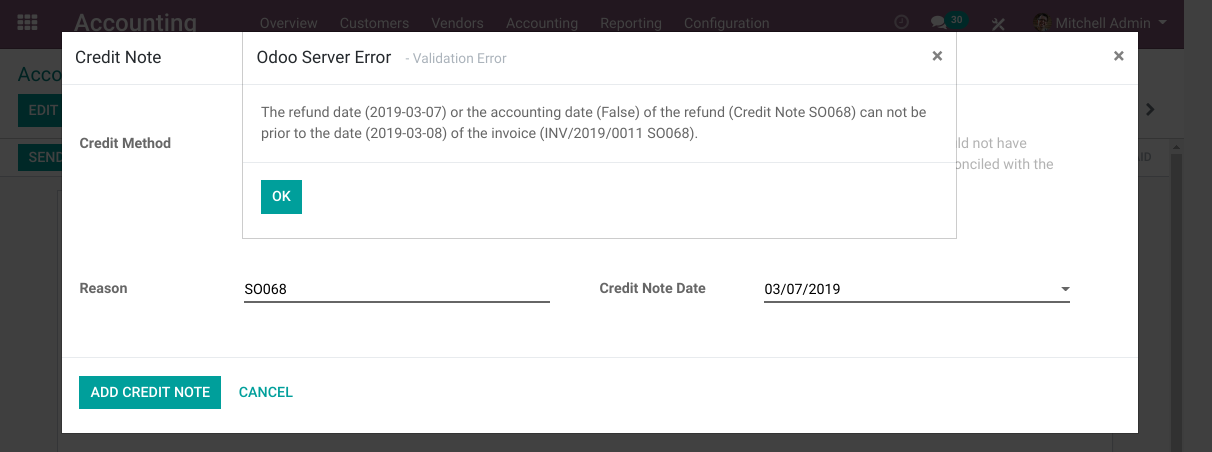
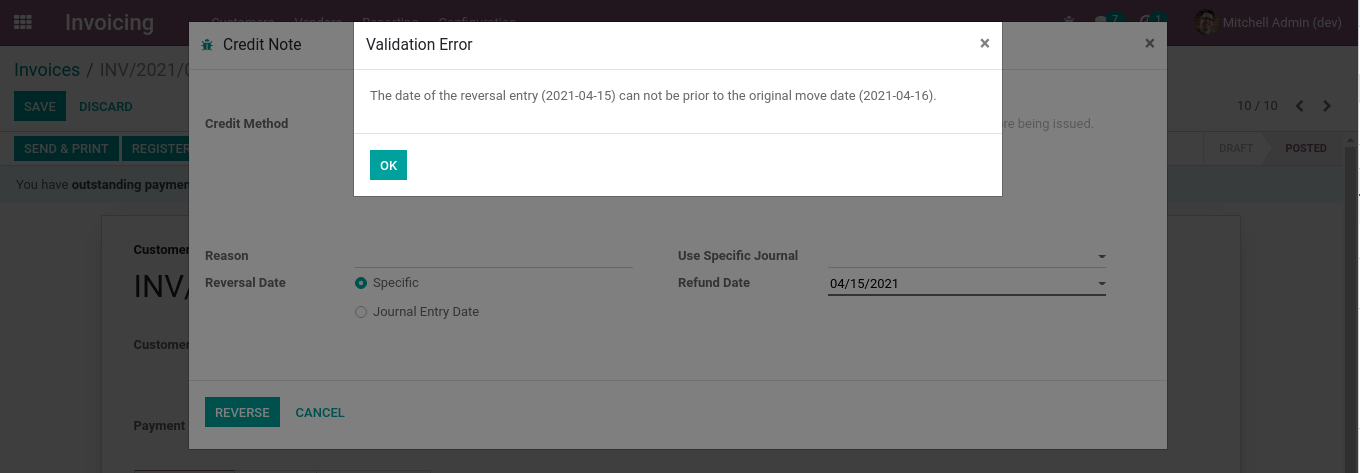
Port invoice_refund_not_earlier to v14

diff --git a/invoice_refund_not_earlier/models.py b/invoice_refund_not_earlier/models.py
@@ -5,50 +5,16 @@ from odoo import api, models, _
 from odoo.exceptions import ValidationError
 
 
-class Invoice(models.Model):
-
-    _inherit = 'account.invoice'
-
-    def _is_refund_prior_to_invoice(self):
-        """Return whether the object is a refund prior to the invoice date.
-
-        :rtype: bool
-        """
-        return (
-            self.type in ('in_refund', 'out_refund') and
-            self.refund_invoice_id and
-            (self.date_invoice and self.date_invoice < self.refund_invoice_id.date_invoice or
-             self.date and self.date < self.refund_invoice_id.date_invoice)
-        )
-
-    def action_invoice_open(self):
-        invalid_refunds = self.filtered(lambda inv: inv._is_refund_prior_to_invoice())
-        if invalid_refunds:
-            refund = invalid_refunds[0]
-            invoice = refund.refund_invoice_id
-            raise ValidationError(_(
-                "The refund date ({refund_date}) or the accounting date ({accounting_date}) "
-                "of the refund ({refund}) can not "
-                "be prior to the date ({invoice_date}) of the invoice ({invoice})."
-            ).format(
-                refund_date=refund.date_invoice or _('empty'),
-                accounting_date=refund.date or _('empty'),
-                refund=refund.display_name,
-                invoice_date=invoice.date_invoice,
-                invoice=invoice.display_name,
-            ))
-        return super().action_invoice_open()
-
-
-class JournalEntry(models.Model):
+class AccountMove(models.Model):
 
     _inherit = 'account.move'
 
-    def reverse_moves(self, date=None, journal_id=None, auto=False):
-        for move in self:
+    def _reverse_moves(self, default_values_list=None, cancel=False):
+        for i, move in enumerate(self):
+            date = default_values_list[i].get("date")
             if date and date < move.date:
                 raise ValidationError(_(
                     "The date of the reversal entry ({reversal_date}) "
                     "can not be prior to the original move date ({move_date})."
                 ).format(reversal_date=date, move_date=move.date))
-        return super().reverse_moves(date=date, journal_id=journal_id, auto=auto)
+        return super()._reverse_moves(default_values_list, cancel)

diff --git a/invoice_refund_not_earlier/tests/test_journal_entry.py b/invoice_refund_not_earlier/tests/test_journal_entry.py
@@ -51,10 +51,10 @@ class TestAccountMove(SavepointCase):
 
     def test_if_reversed_prior_to_original_move__validation_raised(self):
         with pytest.raises(ValidationError):
-            self.move.reverse_moves(date=self.yesterday)
+            self._reverse_moves(date=self.yesterday)
 
     def test_if_reversed_with_same_date__reversal_move_created(self):
-        assert self.move.reverse_moves(date=self.today)
+        assert self._reverse_moves(date=self.today)
 
-    def test_if_reversed_with_no_date__reversal_move_created(self):
-        assert self.move.reverse_moves(date=False)
+    def _reverse_moves(self, date):
+        return self.move._reverse_moves([{"date": date}])

diff --git a/invoice_refund_not_earlier/README.rst b/invoice_refund_not_earlier/README.rst
@@ -2,51 +2,23 @@ Invoice Refund Not Earlier
 ==========================
 This module prevents to select a date prior to the invoice date when registering a refund.
 
-This constraint is added for both supplier and customer invoices.
+This constraint is added on all journal entries, not only invoices.
 
 Usage
 -----
 As member of the group `Accounting / Billing`, I go to the form view of an invoice:
 
+I click to create a refund.
+
 .. image:: static/description/invoice_form.png
 
-I click to create a refund, then I select a refund date prior to the invoice date.
+I select a refund date prior to the invoice date, then I click on ``Reverse``.
 
 .. image:: static/description/refund_wizard.png
 
-When I click on `Add Credit Note`, a blocking message appears:
+A blocking message appears:
 
 .. image:: static/description/error_message.png
-
-The same message is raised if I select an accounting date prior to the invoice date.
-
-Draft Refunds
--------------
-If you choose to create a draft refund, the blocking message not appear when clicking on `Add Credit Note`.
-
-.. image:: static/description/refund_wizard_draft.png
-
-The constraint will be raised only when validating the refund.
-
-.. image:: static/description/credit_note_validate_error_message.png
-
-Journal Entries
----------------
-The equivalent constraint is also added when reversing a journal entry.
-
-As member of the group `Accounting / Billing`, I go to the form view of a journal entry.
-
-I click on the `Reverse Entry` button.
-
-.. image:: static/description/journal_entry_reverse_button.png
-
-I select a date prior to the original move date. Then, I click on `Reverse Moves`.
-
-.. image:: static/description/journal_entry_reverse_reverse_wizard.png
-
-A blocking message appears.
-
-.. image:: static/description/reversal_validate_error_message.png
 
 Contributors
 ------------
